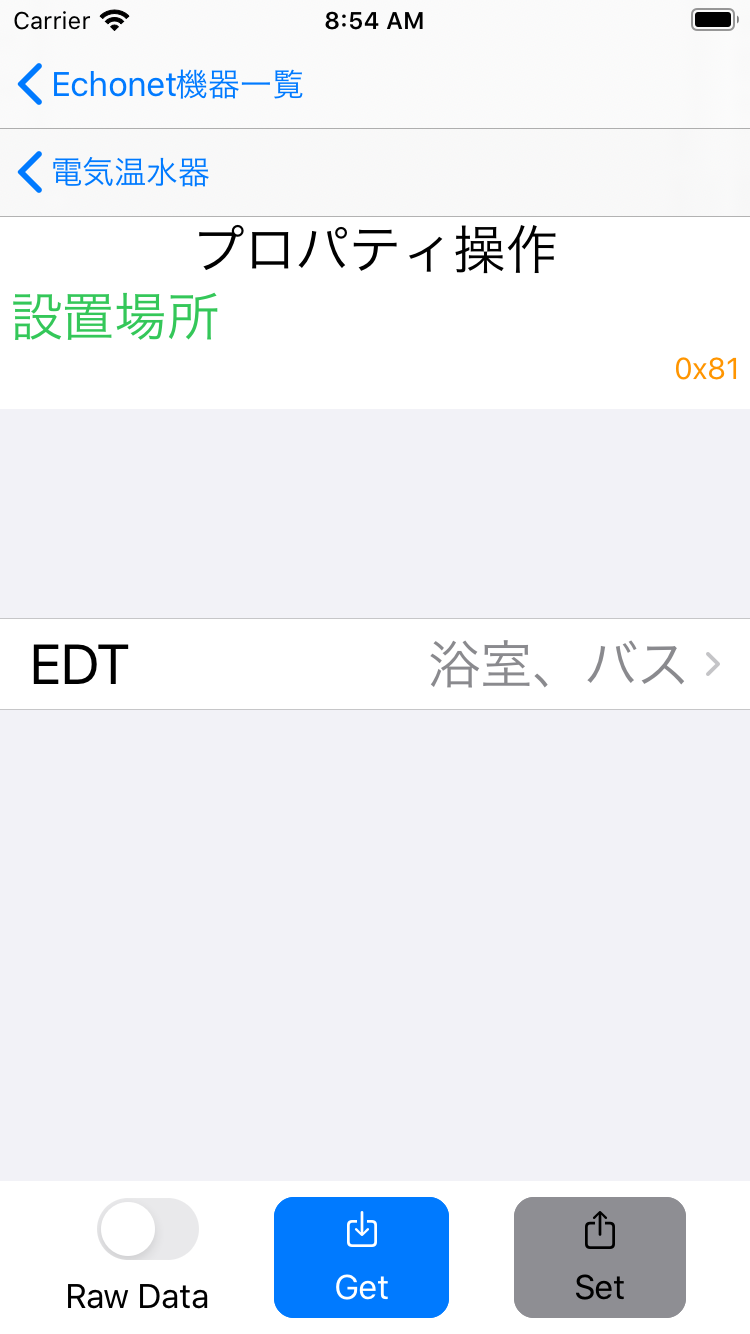
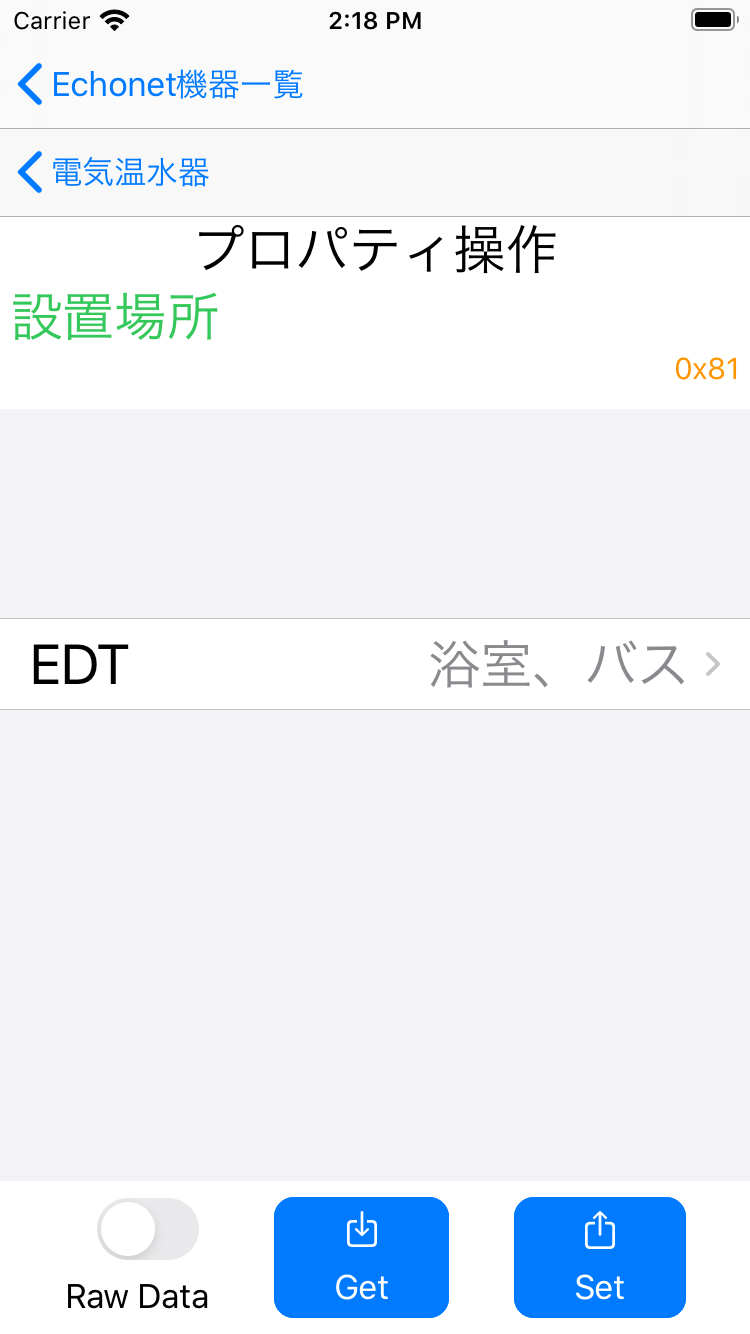
reflect settable properties

Changed region(s): [[0.6747, 0.8913, 0.92, 1.0], [0.4293, 0.0, 0.5827, 0.0307]]

diff --git a/EchonetScanner/NodeList.swift b/EchonetScanner/NodeList.swift
@@ -11,6 +11,7 @@ import ELSwift
 
 struct NodeList: View {
     @EnvironmentObject var userData: UserData
+    @State private var delay:Timer? = nil
 
     private func hexString(_ data: UInt8) -> String {
         return String.init(format: "%02x", data)
@@ -38,6 +39,74 @@ struct NodeList: View {
             l.append(pair.value)
         }
         return l
+    }
+    private func getPropertyMap(prop: EchonetNode.Property) -> [UInt8]{
+        var array:[UInt8] = prop.values
+        if array.count >= 16 { // プロパティマップ16バイト未満は記述形式１
+    //                        // 16バイト以上なので記述形式2，EPCのarrayを作り直したら，あと同じ
+    //                        do {
+    //                            array = try ELSwift.parseMapForm2( ELSwift.bytesToString( array ) )
+    //                        }catch let error{
+    //                            print( error )
+    //                        }
+            var val:UInt = 0x80
+            var ret:[UInt8] = []
+            // bit loop
+            for bit:UInt8 in (0..<8) {
+                // byte loop
+                for byt in (1..<17) {
+                    if 0x01 == ((array[byt] >> bit) & 0x01) {
+                        // print("array[byt] \(array[byt]), byt \(byt), bit \(bit), val \(val)")
+                        ret.append( UInt8(val) )
+                    }
+                    val += 1
+                }
+            }
+            ret.insert(UInt8(ret.count), at: 0)
+            array = ret
+        }
+//        print(array)
+        return array
+    }
+    private func reflectSettable() {
+        print("reflect settables")
+        for nodes in self.userData.echonetNodes.values {
+            for node in nodes.values {
+                if let setProps = node.properties[0x9e] { // Setプロパティマップ
+                    let array = getPropertyMap(prop: setProps)
+                    
+//                    var array:[UInt8] = setProps.values
+//                    if( array.count >= 16 ) { // プロパティマップ16バイト未満は記述形式１
+////                        // 16バイト以上なので記述形式2，EPCのarrayを作り直したら，あと同じ
+////                        do {
+////                            array = try ELSwift.parseMapForm2( ELSwift.bytesToString( array ) )
+////                        }catch let error{
+////                            print( error )
+////                        }
+//                        var val:UInt = 0x80
+//                        var ret:[UInt8] = []
+//                        // bit loop
+//                        for bit:UInt8 in (0..<8) {
+//                            // byte loop
+//                            for byt in (1..<17) {
+//                                if(  0x01  ==  ((array[byt] >> bit) & 0x01)   ) {
+//                                    // print("array[byt] \(array[byt]), byt \(byt), bit \(bit), val \(val)")
+//                                    ret.append( UInt8(val) )
+//                                }
+//                                val += 1
+//                            }
+//                        }
+//                        ret.insert(UInt8(ret.count), at: 0)
+//                        array = ret
+//                    }
+                    for prop in node.properties.values {
+                        if array.contains(UInt8(prop.epc)) {
+                            prop.settable = true
+                        }
+                    }
+                }
+            }
+        }
     }
 
     var body: some View {
@@ -97,6 +166,19 @@ struct NodeList: View {
                             }
                         }
                     }
+                    // delayタイマ起動
+                    if self.delay != nil {
+                        // 動作中のタイマは止める
+                        self.delay!.invalidate()
+                        self.delay = nil
+                    }
+                    self.delay = Timer.scheduledTimer(withTimeInterval: 1, repeats: false, block: {_ in
+                        // 全プロパティの取得を見計らって、各プロパティのsettable値を再設定
+                        self.reflectSettable()
+                        // 動作中のタイマは止める
+                        self.delay!.invalidate()
+                        self.delay = nil
+                    })
                 }, 4)
             }catch let error{
                 print( error )
